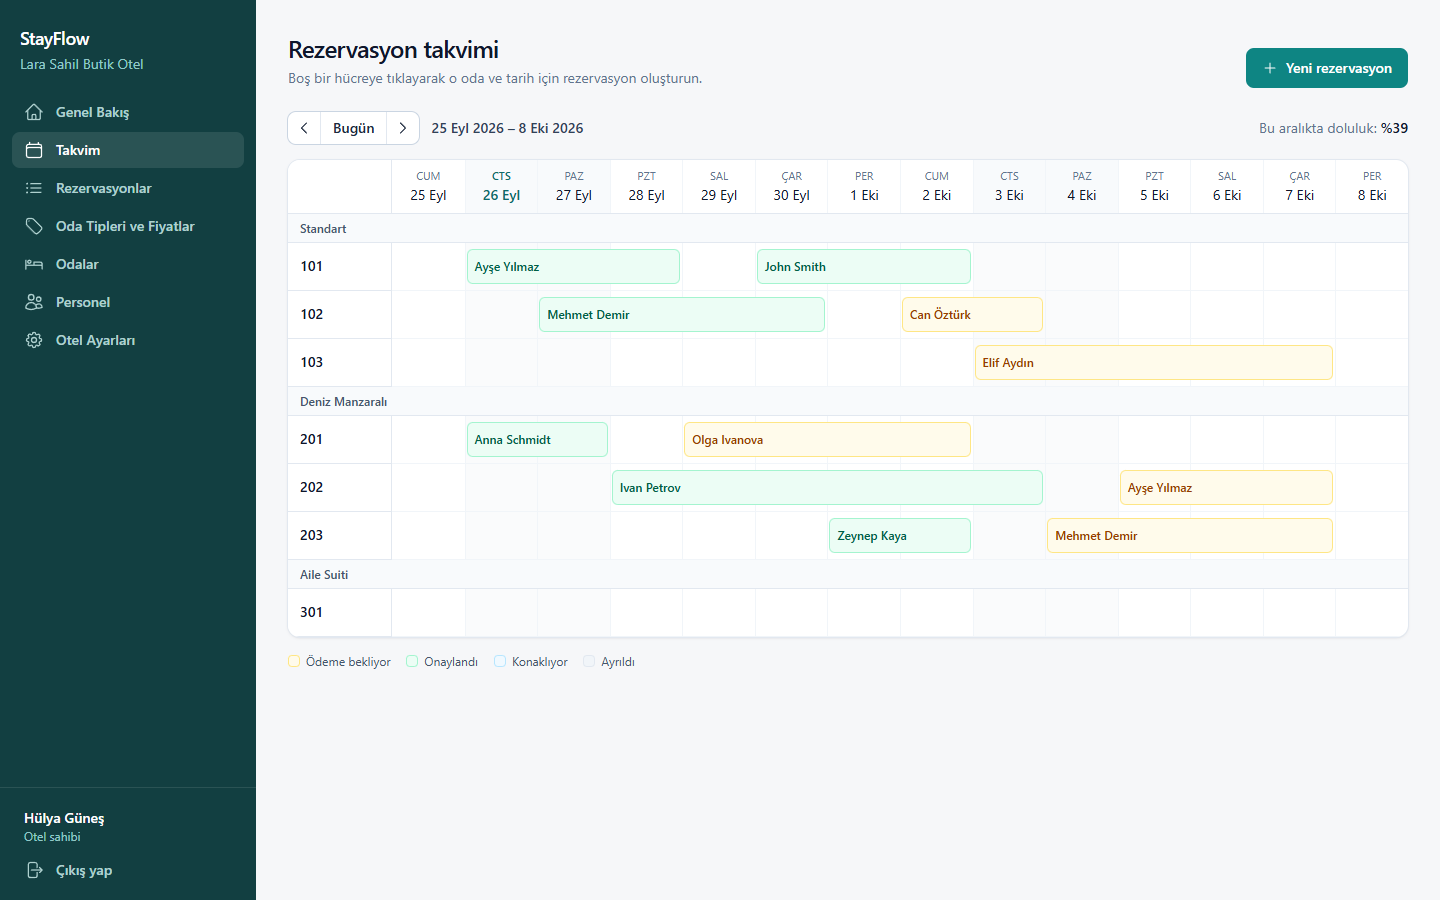
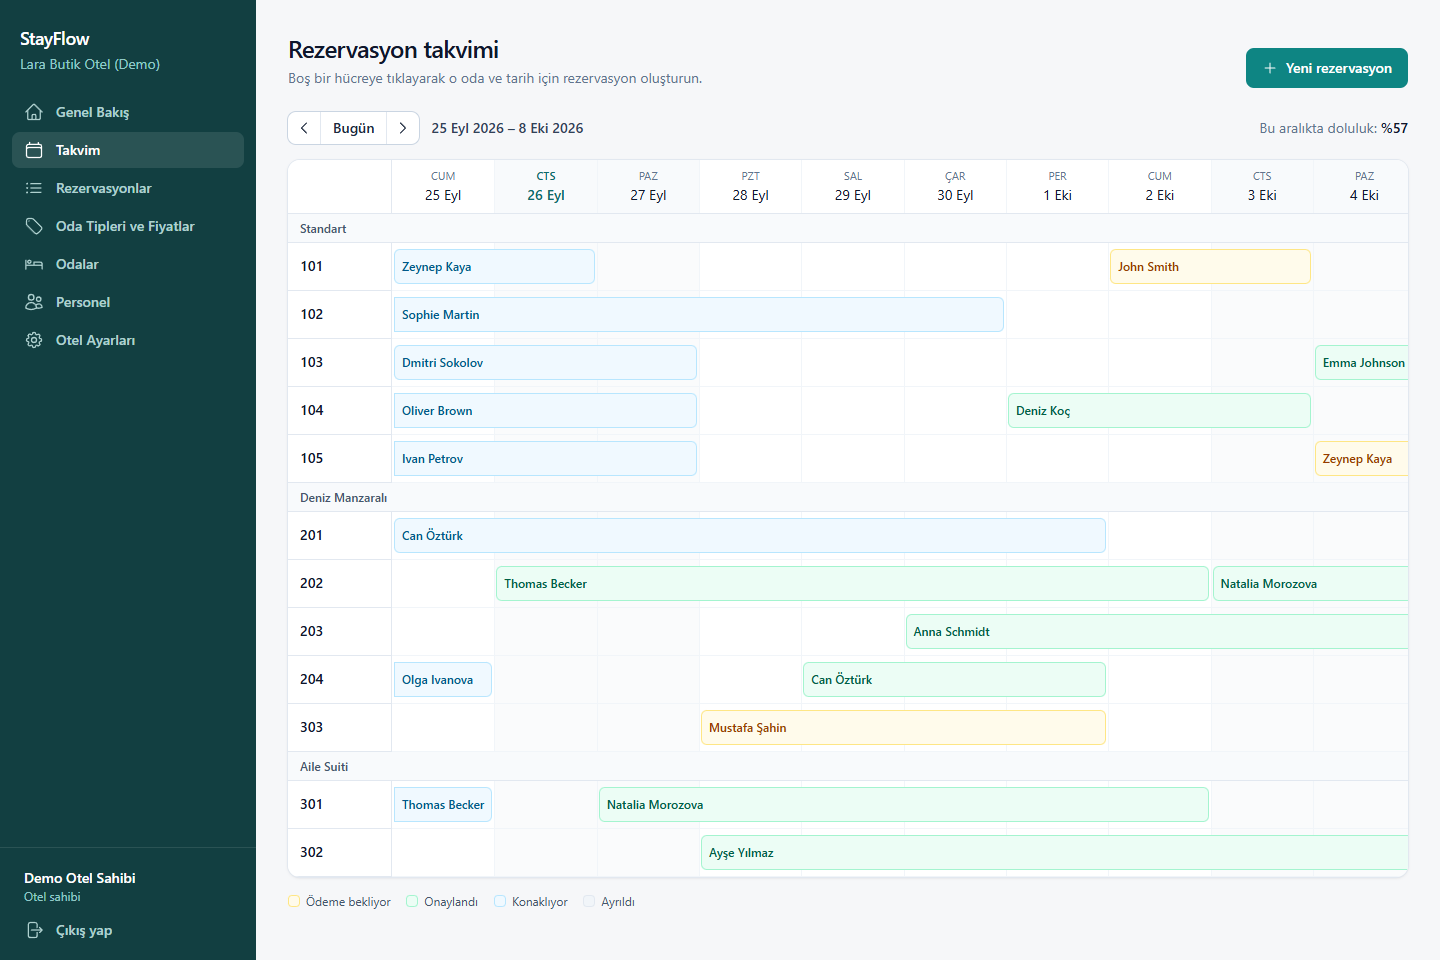
Day 21: demo data and one-click demo login - Phase 1 complete
- DemoDataSeeder: "Lara Butik Otel (Demo)" with 3 room types, a high-season
  price, 12 rooms and ~2 months of reservations generated relative to today
  (checked-out, in-house, arriving today, upcoming, cancelled); idempotent,
  fixed random seed, goes through the same RoomNights rules
- Enabled with DEMO_MODE=true (Database:SeedDemoData + VITE_DEMO_LOGIN build
  arg); login page then shows "Demo hesabiyla dene"
- CI e2e runs in demo mode so seeding is exercised against SQL Server
- Panel API client drains unread error bodies (a failed refresh left the
  request half-open)
- 3 seeder tests -> 47 backend tests; README screenshots from demo data

diff --git a/admin-panel/src/pages/auth/LoginPage.tsx b/admin-panel/src/pages/auth/LoginPage.tsx
@@ -1,4 +1,5 @@
 import { zodResolver } from '@hookform/resolvers/zod'
+import { useState } from 'react'
 import { useForm } from 'react-hook-form'
 import { Link, Navigate, useLocation, useNavigate } from 'react-router'
 import { z } from 'zod'
@@ -14,6 +15,12 @@ const schema = z.object({
 })
 type FormValues = z.infer<typeof schema>
 
+// Sadece demo kurulumunda (build sirasinda VITE_DEMO_LOGIN=true) gorunur. Hesap backend'deki
+// DemoDataSeeder'in olusturdugu ornek otel; gercek otellerin panelinde bu buton hic derlenmez.
+const DEMO_ENABLED = import.meta.env.VITE_DEMO_LOGIN === 'true'
+const DEMO_EMAIL = 'demo@stayflow.app'
+const DEMO_PASSWORD = 'Demo1234!'
+
 export function LoginPage() {
   const { user, login } = useAuth()
   const navigate = useNavigate()
@@ -26,17 +33,20 @@ export function LoginPage() {
     setError,
     formState: { errors, isSubmitting },
   } = useForm<FormValues>({ resolver: zodResolver(schema) })
+  const [demoLoading, setDemoLoading] = useState(false)
 
   if (user) return <Navigate to={from} replace />
 
-  const onSubmit = handleSubmit(async ({ email, password }) => {
+  const signIn = async (email: string, password: string) => {
     try {
       await login(email, password)
       navigate(from, { replace: true })
     } catch (error) {
       setError('root', { message: error instanceof Error ? error.message : 'Giriş yapılamadı.' })
     }
-  })
+  }
+
+  const onSubmit = handleSubmit(({ email, password }) => signIn(email, password))
 
   return (
     <AuthShell
@@ -59,6 +69,22 @@ export function LoginPage() {
           Giriş yap
         </Button>
       </form>
+      {DEMO_ENABLED && (
+        <div className="mt-6 rounded-lg bg-brand-50 p-4 text-sm ring-1 ring-brand-100">
+          <p className="font-medium text-brand-900">Projeyi incelemek mi istiyorsunuz?</p>
+          <p className="mt-1 text-brand-800">Örnek odalar ve rezervasyonlarla dolu bir demo otel hazır.</p>
+          <Button variant="secondary" className="mt-3 w-full" disabled={isSubmitting}
+            loading={demoLoading}
+            onClick={async () => {
+              setDemoLoading(true)
+              await signIn(DEMO_EMAIL, DEMO_PASSWORD)
+              setDemoLoading(false)
+            }}
+          >
+            Demo hesabıyla dene
+          </Button>
+        </div>
+      )}
     </AuthShell>
   )
 }

diff --git a/admin-panel/src/api/client.ts b/admin-panel/src/api/client.ts
@@ -41,6 +41,8 @@ export async function refreshTokens(): Promise<boolean> {
       // Govde yok: tarayici httpOnly refresh cookie'sini kendisi ekler (ayni origin).
       const response = await fetch(`${BASE_URL}/auth/refresh`, { method: 'POST', credentials: 'same-origin' })
       if (!response.ok) {
+        // Govdeyi okumadan birakmak istegi "yarim" birakir ve baglantinin tekrar kullanilmasini geciktirir
+        await response.body?.cancel()
         setSession(null)
         return false
       }
@@ -77,7 +79,9 @@ async function request<T>(method: Method, path: string, body?: unknown, retry = 
 
   // Access token suresi dolduysa bir kere yenileyip ayni istegi tekrar dene.
   if (response.status === 401 && session && retry && !path.startsWith('/auth/')) {
+    await response.body?.cancel()
     if (await refreshTokens()) return request<T>(method, path, body, false)
+    throw new ApiError(401, { detail: 'Oturumunuzun süresi doldu. Lütfen tekrar giriş yapın.' })
   }
 
   if (!response.ok) {

diff --git a/backend/StayFlow.Infrastructure/Persistence/DemoDataSeeder.cs b/backend/StayFlow.Infrastructure/Persistence/DemoDataSeeder.cs
@@ -1,0 +1,165 @@
+using Microsoft.EntityFrameworkCore;
+using StayFlow.Application.Common;
+using StayFlow.Application.Common.Interfaces;
+using StayFlow.Application.Reservations;
+using StayFlow.Domain.Entities;
+using StayFlow.Domain.Enums;
+
+namespace StayFlow.Infrastructure.Persistence;
+
+/// <summary>
+/// Canli demo icin dolu bir otel: oda tipleri, sezon fiyati, 12 oda, ~2 aylik rezervasyon gecmisi/gelecegi.
+/// Tarihler "bugun"e gore uretilir - demo her gun acildiginda takvim canli gorunur.
+/// Idempotent: demo otel zaten varsa hicbir sey yapmaz. Rastgelelik sabit tohumla (her kurulumda ayni veri).
+/// </summary>
+public class DemoDataSeeder
+{
+    public const string DemoEmail = "demo@stayflow.app";
+    public const string DemoPassword = "Demo1234!";
+    public const string ReceptionEmail = "resepsiyon@stayflow.app";
+    private const string DemoSlug = "demo-lara-butik-otel";
+
+    private static readonly string[] GuestNames =
+    [
+        "Ayşe Yılmaz", "Mehmet Demir", "Anna Schmidt", "Ivan Petrov", "Zeynep Kaya", "John Smith", "Elif Aydın",
+        "Hans Müller", "Olga Ivanova", "Can Öztürk", "Sophie Martin", "Mustafa Şahin", "Lena Weber", "Dmitri Sokolov",
+        "Emma Johnson", "Burak Çelik", "Katarina Novak", "Selin Arslan", "Thomas Becker", "Natalia Morozova",
+        "Oliver Brown", "Deniz Koç", "Marta Kowalska", "Ahmet Yıldız", "Julia Fischer", "Sergey Volkov"
+    ];
+
+    private readonly StayFlowDbContext _db;
+    private readonly IPasswordHasher _passwordHasher;
+    private readonly TimeProvider _timeProvider;
+
+    public DemoDataSeeder(StayFlowDbContext db, IPasswordHasher passwordHasher, TimeProvider timeProvider)
+    {
+        _db = db;
+        _passwordHasher = passwordHasher;
+        _timeProvider = timeProvider;
+    }
+
+    public async Task SeedAsync(CancellationToken ct = default)
+    {
+        if (await _db.Hotels.AnyAsync(h => h.Slug == DemoSlug, ct))
+        {
+            return;
+        }
+
+        var random = new Random(42);
+        var today = _timeProvider.Today();
+
+        // Istek (HTTP) yok -> tenant bilgisi yok; bu yuzden her kayda HotelId'yi elle veriyoruz.
+        var hotel = new Hotel
+        {
+            Name = "Lara Butik Otel (Demo)",
+            Slug = DemoSlug,
+            City = "Antalya",
+            Address = "Lara Cad. No: 12, Muratpaşa",
+            Phone = "0242 000 00 00",
+            Email = "info@stayflow.app"
+        };
+        _db.Hotels.Add(hotel);
+
+        _db.Users.AddRange(
+            new AppUser { HotelId = hotel.Id, Email = DemoEmail, FullName = "Demo Otel Sahibi", Role = UserRole.Owner, PasswordHash = _passwordHasher.Hash(DemoPassword) },
+            new AppUser { HotelId = hotel.Id, Email = ReceptionEmail, FullName = "Selin Resepsiyon", Role = UserRole.Reception, PasswordHash = _passwordHasher.Hash(DemoPassword) });
+
+        var standard = new RoomType { HotelId = hotel.Id, Name = "Standart", Description = "Bahçe manzaralı, çift kişilik", Capacity = 2, BasePrice = 1800 };
+        var seaView = new RoomType { HotelId = hotel.Id, Name = "Deniz Manzaralı", Description = "Balkonlu, deniz manzaralı", Capacity = 3, BasePrice = 2600 };
+        var family = new RoomType { HotelId = hotel.Id, Name = "Aile Suiti", Description = "İki yatak odalı, 5 kişilik", Capacity = 5, BasePrice = 4200 };
+        _db.RoomTypes.AddRange(standard, seaView, family);
+
+        // Onumuzdeki 2-5. haftalar "yuksek sezon": fiyat hesaplamasi takvimde ve musaitlikte gorulsun
+        var highSeason = new SeasonalPrice
+        {
+            HotelId = hotel.Id, RoomTypeId = seaView.Id, StartDate = today.AddDays(14), EndDate = today.AddDays(35), PricePerNight = 3400
+        };
+        _db.SeasonalPrices.Add(highSeason);
+
+        var rooms = new List<Room>();
+        foreach (var (number, type) in new[]
+        {
+            ("101", standard), ("102", standard), ("103", standard), ("104", standard), ("105", standard),
+            ("201", seaView), ("202", seaView), ("203", seaView), ("204", seaView),
+            ("301", family), ("302", family), ("303", seaView)
+        })
+        {
+            rooms.Add(new Room { HotelId = hotel.Id, RoomTypeId = type.Id, RoomType = type, RoomNumber = number, Floor = number[0] - '0' });
+        }
+        _db.Rooms.AddRange(rooms);
+
+        // Her oda icin 3 hafta oncesinden 5 hafta sonrasina kadar, aralarinda bosluk olan ardisik konaklamalar
+        var guestIndex = 0;
+        foreach (var room in rooms)
+        {
+            var cursor = today.AddDays(-21 + random.Next(0, 4));
+            while (cursor < today.AddDays(35))
+            {
+                var nights = random.Next(2, 8);
+                var checkIn = cursor;
+                var checkOut = checkIn.AddDays(nights);
+                cursor = checkOut.AddDays(random.Next(0, 4)); // bazen ayni gun yeni misafir, bazen bos gunler
+
+                // Doluluk %100 gorunmesin: konaklamalarin bir kismini atla
+                if (random.NextDouble() < 0.25)
+                {
+                    continue;
+                }
+
+                // Bugun cikacak misafir sabah hala otelde: check-out'u resepsiyon gun icinde yapar
+                var status = checkOut < today ? ReservationStatus.CheckedOut
+                    : checkIn < today ? ReservationStatus.CheckedIn
+                    : checkIn == today ? ReservationStatus.Confirmed // bugun gelecekler: check-in bekliyor
+                    : random.NextDouble() < 0.3 ? ReservationStatus.Pending : ReservationStatus.Confirmed;
+
+                AddReservation(hotel.Id, room, checkIn, checkOut, status, GuestNames[guestIndex++ % GuestNames.Length], random, highSeason);
+            }
+        }
+
+        // Birkac iptal: gecmiste iz birakir ama geceleri doldurmaz
+        for (var i = 0; i < 3; i++)
+        {
+            AddReservation(hotel.Id, rooms[i], today.AddDays(40 + i * 3), today.AddDays(42 + i * 3), ReservationStatus.Cancelled,
+                GuestNames[guestIndex++ % GuestNames.Length], random, highSeason);
+        }
+
+        await _db.SaveChangesAsync(ct);
+    }
+
+    private void AddReservation(Guid hotelId, Room room, DateOnly checkIn, DateOnly checkOut, ReservationStatus status,
+        string guestName, Random random, SeasonalPrice highSeason)
+    {
+        var guest = new Guest
+        {
+            HotelId = hotelId,
+            FullName = guestName,
+            Email = $"{guestName.Split(' ')[0].ToLowerInvariant()}{random.Next(10, 99)}@ornek.com",
+            Phone = $"05{random.Next(30, 56)}{random.Next(1000000, 9999999)}"
+        };
+
+        var prices = room.RoomTypeId == highSeason.RoomTypeId ? [highSeason] : Array.Empty<SeasonalPrice>();
+        var reservation = new Reservation
+        {
+            HotelId = hotelId,
+            RoomId = room.Id,
+            Guest = guest,
+            CheckIn = checkIn,
+            CheckOut = checkOut,
+            GuestCount = random.Next(1, room.RoomType.Capacity + 1),
+            Status = status,
+            TotalPrice = PriceCalculator.CalculateTotal(room.RoomType.BasePrice, prices, checkIn, checkOut),
+            CreatedAt = checkIn.AddDays(-random.Next(3, 40)).ToDateTime(new TimeOnly(10, 0), DateTimeKind.Utc)
+        };
+
+        // Iptal edilenler disinda her gece RoomNights'a yazilir - normal rezervasyon akisiyla ayni kural
+        if (status != ReservationStatus.Cancelled)
+        {
+            foreach (var night in PriceCalculator.Nights(checkIn, checkOut))
+            {
+                reservation.RoomNights.Add(new RoomNight { HotelId = hotelId, RoomId = room.Id, Date = night });
+            }
+        }
+
+        _db.Reservations.Add(reservation);
+    }
+}

diff --git a/backend/StayFlow.Tests/Persistence/DemoDataSeederTests.cs b/backend/StayFlow.Tests/Persistence/DemoDataSeederTests.cs
@@ -1,0 +1,71 @@
+using Microsoft.EntityFrameworkCore;
+using Microsoft.Extensions.Time.Testing;
+using StayFlow.Domain.Enums;
+using StayFlow.Infrastructure.Persistence;
+using StayFlow.Infrastructure.Security;
+using StayFlow.Tests.Common;
+
+namespace StayFlow.Tests.Persistence;
+
+public class DemoDataSeederTests : IDisposable
+{
+    private readonly TestDatabase _database = new();
+    private readonly FakeTimeProvider _clock = new(new DateTimeOffset(2030, 7, 15, 9, 0, 0, TimeSpan.Zero));
+    private static readonly DateOnly Today = new(2030, 7, 15);
+
+    private async Task SeedAsync()
+    {
+        await using var db = _database.CreateContext(new FakeTenantService());
+        await new DemoDataSeeder(db, new PasswordHasher(), _clock).SeedAsync();
+    }
+
+    private async Task<StayFlowDbContext> DemoHotelContextAsync()
+    {
+        await using var lookup = _database.CreateContext(new FakeTenantService());
+        var hotelId = await lookup.Hotels.Select(h => h.Id).SingleAsync();
+        return _database.CreateContext(new FakeTenantService { HotelId = hotelId });
+    }
+
+    [Fact]
+    public async Task Iki_kez_calisinca_veriyi_cogaltmaz()
+    {
+        await SeedAsync();
+        await SeedAsync();
+
+        await using var db = await DemoHotelContextAsync();
+        Assert.Equal(12, await db.Rooms.CountAsync());
+        Assert.Equal(2, await db.Users.CountAsync());
+    }
+
+    [Fact]
+    public async Task Uretilen_rezervasyonlar_tutarli()
+    {
+        await SeedAsync(); // RoomNights unique index'ine takilsaydi burada patlardi
+
+        await using var db = await DemoHotelContextAsync();
+        var reservations = await db.Reservations.Include(r => r.RoomNights).ToListAsync();
+
+        Assert.True(reservations.Count > 30, $"Demo icin yeterli rezervasyon yok: {reservations.Count}");
+        // Konaklayanlar: dun veya once girdi, bugun ya da sonra cikacak (bugun cikacaklar sabah hala otelde)
+        Assert.All(reservations.Where(r => r.Status == ReservationStatus.CheckedIn), r => Assert.True(r.CheckIn < Today && Today <= r.CheckOut));
+        Assert.All(reservations.Where(r => r.Status == ReservationStatus.CheckedOut), r => Assert.True(r.CheckOut < Today));
+        Assert.All(reservations.Where(r => r.Status == ReservationStatus.Cancelled), r => Assert.Empty(r.RoomNights));
+        Assert.All(reservations.Where(r => r.Status != ReservationStatus.Cancelled),
+            r => Assert.Equal(r.CheckOut.DayNumber - r.CheckIn.DayNumber, r.RoomNights.Count));
+        // Demo'da "bugun" dolu gorunmeli: konaklayan misafirler var
+        Assert.Contains(reservations, r => r.Status == ReservationStatus.CheckedIn);
+    }
+
+    [Fact]
+    public async Task Demo_hesabinin_sifresi_dogrulanir()
+    {
+        await SeedAsync();
+
+        await using var db = await DemoHotelContextAsync();
+        var owner = await db.Users.SingleAsync(u => u.Email == DemoDataSeeder.DemoEmail);
+        Assert.True(new PasswordHasher().Verify(DemoDataSeeder.DemoPassword, owner.PasswordHash));
+        Assert.Equal(UserRole.Owner, owner.Role);
+    }
+
+    public void Dispose() => _database.Dispose();
+}

diff --git a/backend/StayFlow.API/Program.cs b/backend/StayFlow.API/Program.cs
@@ -116,6 +116,13 @@ if (app.Configuration.GetValue<bool>("Database:MigrateOnStartup"))
     await scope.ServiceProvider.GetRequiredService<StayFlowDbContext>().Database.MigrateAsync();
 }
 
+// Canli demo: giris ekranindaki "Demo hesabiyla dene" butonu bu oteli kullanir.
+if (app.Configuration.GetValue<bool>("Database:SeedDemoData"))
+{
+    using var scope = app.Services.CreateScope();
+    await scope.ServiceProvider.GetRequiredService<DemoDataSeeder>().SeedAsync();
+}
+
 app.UseExceptionHandler();
 
 // Configure the HTTP request pipeline.

diff --git a/backend/StayFlow.Infrastructure/DependencyInjection.cs b/backend/StayFlow.Infrastructure/DependencyInjection.cs
@@ -18,6 +18,7 @@ public static class DependencyInjection
         // Servisler IApplicationDbContext ister; ayni istek icindeki (scoped) StayFlowDbContext'i veriyoruz.
         services.AddScoped<IApplicationDbContext>(sp => sp.GetRequiredService<StayFlowDbContext>());
         services.AddSingleton<IPasswordHasher, PasswordHasher>();
+        services.AddScoped<DemoDataSeeder>();
 
         return services;
     }

diff --git a/README.md b/README.md
@@ -3,7 +3,7 @@
 Butik oteller ve pansiyonlar için çok kiracılı (multi-tenant) rezervasyon ve misafir yönetim sistemi.
 Her otel kendi hesabıyla sisteme kaydolur; odalarını, fiyatlarını ve rezervasyonlarını yönetir ve yalnızca kendi verisini görür.
 
-> Durum: **3. hafta tamamlandı**: backend, React yönetim paneli, Docker ve CI/CD.
+> Durum: **Faz 1 tamamlandı (4 hafta)**: backend, React yönetim paneli, Docker, CI/CD ve demo verisi.
 > Canlı yayın için sunucu kurulumu [docs/deploy.md](docs/deploy.md) rehberinde.
 
 ![Rezervasyon takvimi](docs/screenshots/calendar.png)
@@ -78,6 +78,12 @@ docker compose up --build
 SQL Server, API ve panel birlikte ayağa kalkar; veritabanı tabloları ilk açılışta otomatik oluşturulur.
 Panel `http://localhost:8080` adresinde açılır.
 
+**Demo modu:** `.env` içinde `DEMO_MODE=true` yapılırsa ilk açılışta "Lara Butik Otel (Demo)" oluşturulur. Bu otelde
+12 oda, sezon fiyatı ve bugüne göre dağıtılmış yaklaşık iki aylık rezervasyon bulunur: konaklayanlar, bugün gelecekler, gelecek rezervasyonlar ve iptaller.
+Giriş ekranında **"Demo hesabıyla dene"** butonu çıkar (`demo@stayflow.app` / `Demo1234!`).
+
+![Giriş ekranı](docs/screenshots/login.png)
+
 ### Geliştirme ortamı
 
 Gereksinimler: .NET 10 SDK ve SQL Server LocalDB (Visual Studio ile birlikte gelir) ya da herhangi bir SQL Server.
@@ -108,7 +114,7 @@ Panel `http://localhost:5173` adresinde açılır; `/api` istekleri Vite üzerin
 Testler:
 
 ```bash
-cd backend && dotnet test          # 44 test (servis + HTTP entegrasyon)
+cd backend && dotnet test          # 47 test (servis + HTTP entegrasyon + demo verisi)
 cd admin-panel && npm test         # 15 test
 python scripts/smoke_test.py       # çalışan sisteme karşı uçtan uca test (Docker: localhost:8080)
 ```
@@ -143,6 +149,7 @@ Hatalar RFC 7807 `ProblemDetails` formatında döner: 400 (doğrulama), 401, 403
 - [x] **1. hafta:** Auth ve roller, multi-tenancy, oda tipi/oda/sezon fiyatı, müsaitlik, rezervasyon ve çifte rezervasyon koruması, testler
 - [x] **2. hafta:** React + TypeScript yönetim paneli: genel bakış, rezervasyon takvimi, rezervasyon akışı, oda/fiyat/personel yönetimi, testler
 - [x] **3. hafta:** Docker Compose, GitHub Actions CI (Docker'da uçtan uca test dahil), GHCR + SSH ile otomatik deploy, Nginx + Let's Encrypt kurulum rehberi
+- [x] **4. hafta:** Check-in/check-out (erken çıkışta kalan geceler satışa açılır), otelin saat dilimine göre "bugün", httpOnly refresh cookie, giriş deneme sınırı, HTTP entegrasyon testleri, API dokümantasyonu, demo verisi
 - [ ] Sunucuya ilk kurulum ve canlı demo adresi
 - [ ] Hangfire (ödenmeyen rezervasyonu 15 dk'da iptal), SignalR, Redis, Testcontainers, Serilog
 - [ ] React Native misafir uygulaması, LLM ile yorum özetleme

diff --git a/docs/deploy.md b/docs/deploy.md
@@ -61,6 +61,7 @@ nano .env
 | `JWT_SECRET` | `openssl rand -base64 48` çıktısı |
 | `WEB_PORT` | `8080` (Nginx buna yönlendirir) |
 | `IMAGE_OWNER` | GitHub kullanıcı adınız, **küçük harflerle** (imajlar `ghcr.io/<bu>/stayflow-*`) |
+| `DEMO_MODE` | Portföy demosu için `true`: örnek verili demo otel oluşturulur. Gerçek müşteri kurulumunda `false` |
 
 ```bash
 chmod 600 .env   # sadece deploy kullanıcısı okuyabilsin
@@ -100,7 +101,7 @@ Sertifika her 90 günde bir otomatik yenilenir (`systemctl list-timers | grep ce
    ```
 2. GitHub'da **Settings → Secrets and variables → Actions** sayfasına gidin:
    - **Secrets:** `VPS_HOST` (sunucu IP'si veya alan adı), `VPS_USER` (`deploy`), `VPS_SSH_KEY` (yukarıdaki özel anahtar)
-   - **Variables:** `DEPLOY_ENABLED` = `true`
+   - **Variables:** `DEPLOY_ENABLED` = `true`; demo sitesi için ayrıca `DEMO_MODE` = `true` (giriş ekranına "Demo hesabıyla dene" butonu ekler)
 3. **Settings → Environments** sayfasından `production` ortamını oluşturun. İsterseniz burada "Required reviewers" ile her deploy'u onaya bağlayabilirsiniz.
 
 Bundan sonra `main` (veya `master`) dalına yapılan her push şöyle işler:
